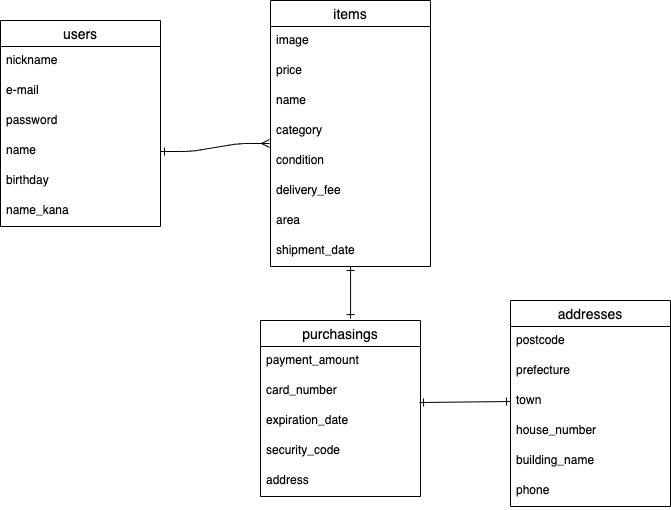
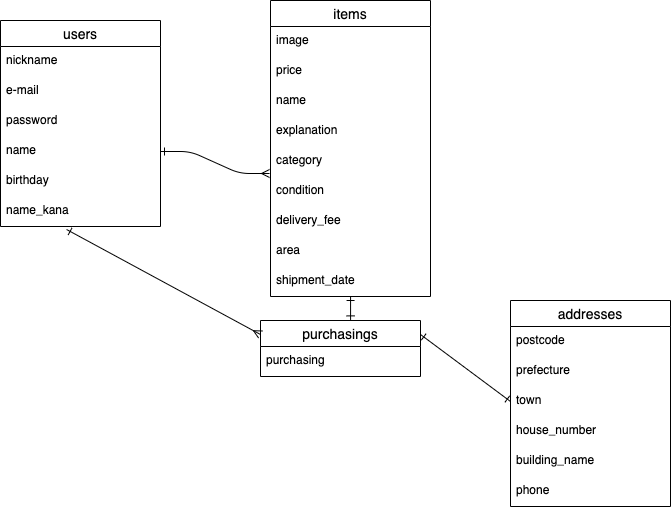
修正２

diff --git a/README.md b/README.md
@@ -14,8 +14,8 @@
 | birthday           | date                | null: false               |
  
 ### Association
-
 * has_many :items
+* has_many :purchasings
 
 
 ## items table
@@ -25,14 +25,16 @@
 | user               | references          | foreign_key: true       |
 | price              | integer             | null: false             |
 | name               | string              | null: false             |
-| condition          | text                | null: false             |
-| delivery_fee       | integer             | null: false             |
+| explanation        | text                | null: false             |
+| category_id        | integer             | null: false             |
+| condition_id       | integer             | null: false             |
+| delivery_fee_id    | integer             | null: false             |
 | area_id            | integer             | null: false             |
-| shipment_date      | string              | null: false             |
+| shipment_date_id   | integer             | null: false             |
 
 ### Association
 
-* belongs_to :user
+* belongs_to :users
 * has_one : purchasing
 
 
@@ -40,11 +42,12 @@
 
 | Column             | Type                | Options                 |
 |--------------------|---------------------|-------------------------|
-| payment_amount     | integer             | null: false             |
-| address            | references          | foreign_key: true       |
+| purchasing         | references          | foreign_key: true       |
 
 ### Association
  
+* belongs_to :user
+* belongs_to :purchasing
 * has_one : address
 
 
@@ -57,7 +60,7 @@
 | town               | string              | null: false             |
 | house_number       | string              | null: false             |
 | building_name      | string              | null: false             |
-| phone              | integer             | null: false             |
+| phone              | string              | null: false             |
 
 ### Association
 
